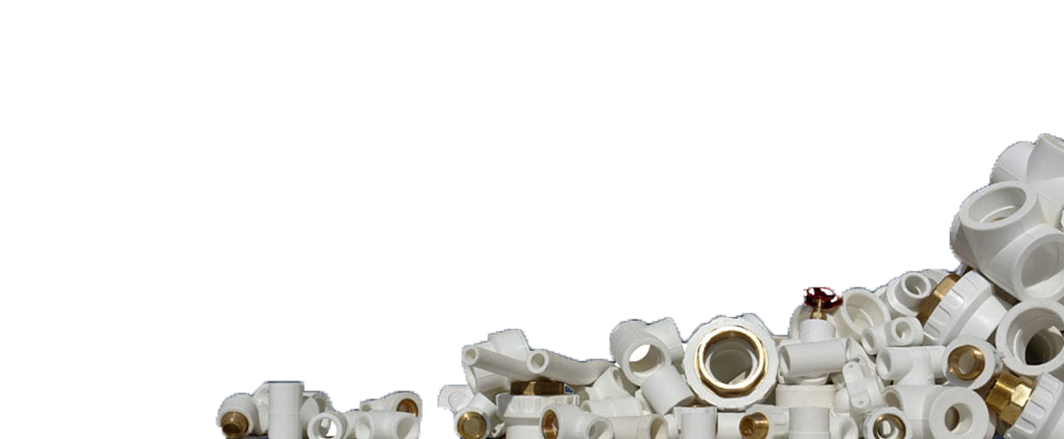
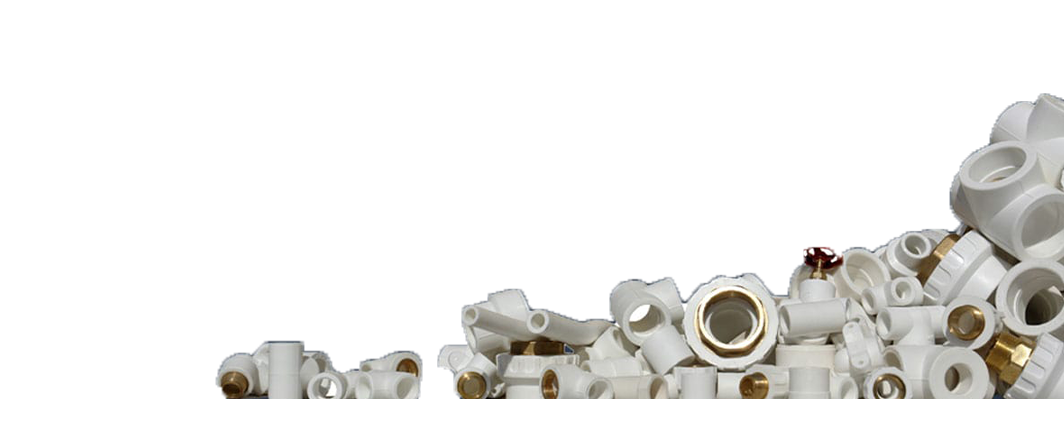
correction

Changed region(s): [[0.1861, 0.2073, 1.0, 1.0]]

diff --git a/public/assets/frontend/css/endreox.css b/public/assets/frontend/css/endreox.css
@@ -8986,6 +8986,7 @@ ul {
   display: block;
   padding: 205px 0 131px;
   background-color: #424e5e;
+  /* background-color: #081037; */
   overflow: hidden;
   z-index: 1;
 }
@@ -9000,7 +9001,7 @@ ul {
   background-position: top center;
   background-size: cover;
   mix-blend-mode: hard-light;
-  opacity: 0.50;
+  /* opacity: 0.50; */
   z-index: -1;
 }
 

diff --git a/resources/views/layout/frontend/components/navbar.blade.php b/resources/views/layout/frontend/components/navbar.blade.php
@@ -4,7 +4,7 @@
             <div class="main-menu__wrapper-inner">
                 <div class="main-menu__left">
                     <div class="main-menu__logo">
-                        <a href="{{ route('index.home') }}"><img src="{{ asset('assets/frontend/images/resources/logo-1.png') }}" alt="" width="150"></a>
+                        <a href="{{ route('index.home') }}"><img src="{{ asset('assets/frontend/images/resources/logo-1.png') }}" alt="" width="200"></a>
                     </div>
                     <div class="main-menu__main-menu-box">
                         <a href="#" class="mobile-nav__toggler"><i class="fa fa-bars"></i></a>

diff --git a/resources/views/page/frontend/brand.blade.php b/resources/views/page/frontend/brand.blade.php
@@ -3,7 +3,7 @@
 @section('content')
     <!--Page Header Start-->
     <section class="page-header">
-        <div class="page-header-bg" style="background-image: url(assets/frontend/images/backgrounds/page-header-bg-4.png);">
+        <div class="page-header-bg" style="background-image: url(assets/frontend/images/backgrounds/page-header-bg-3.png);">
         </div>
         <div class="container">
             <div class="page-header__inner">
